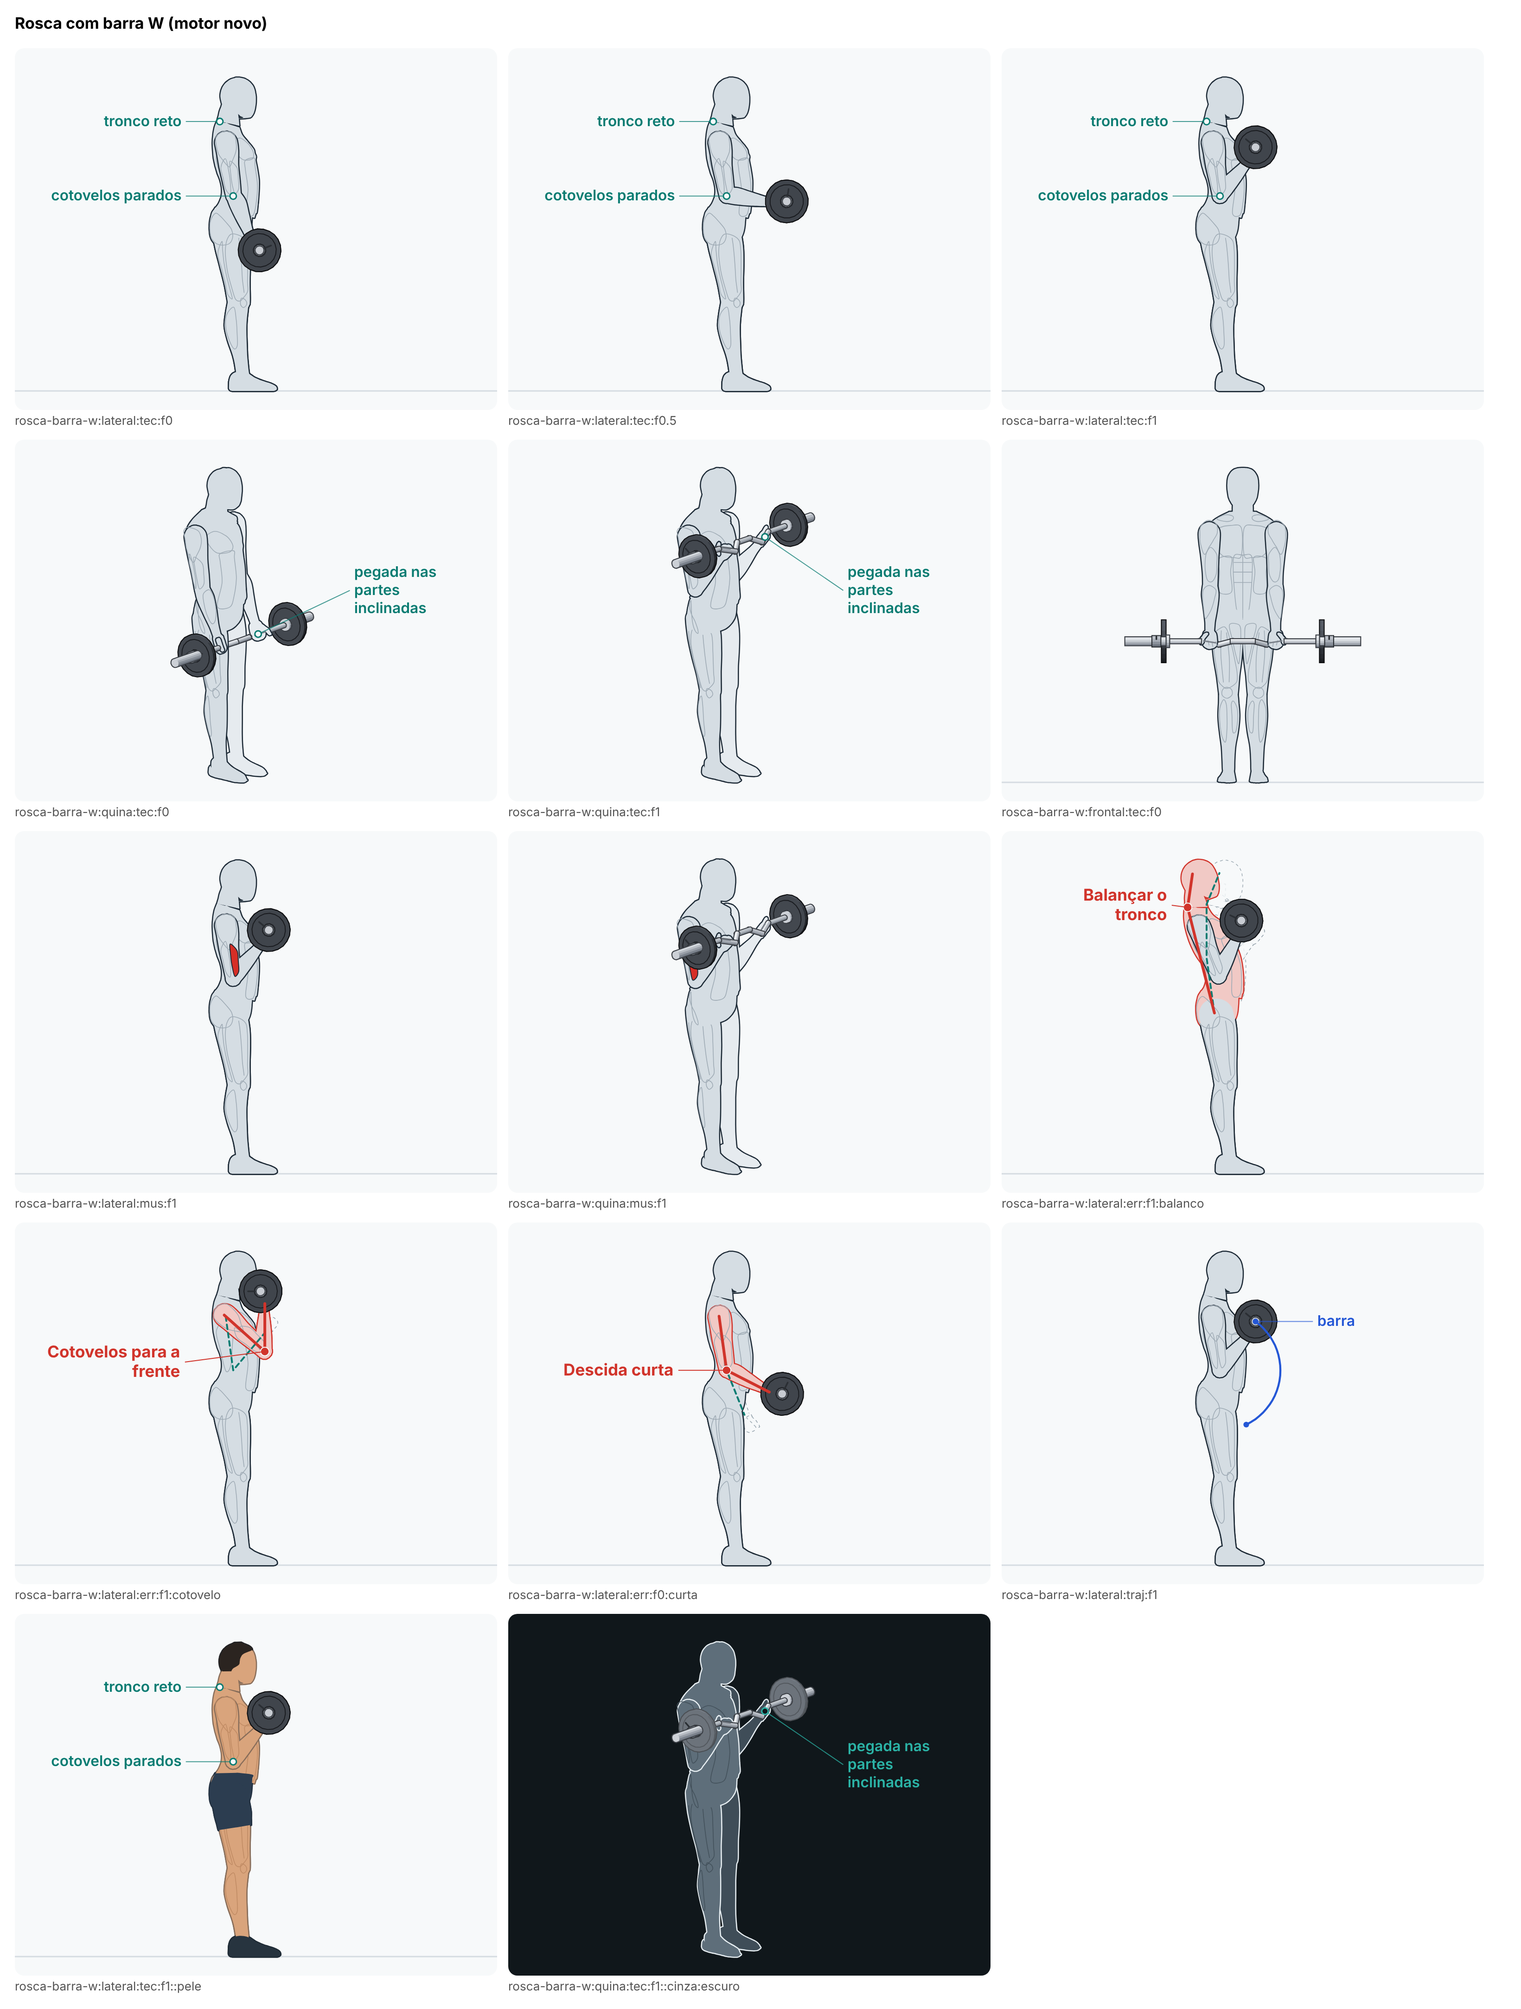
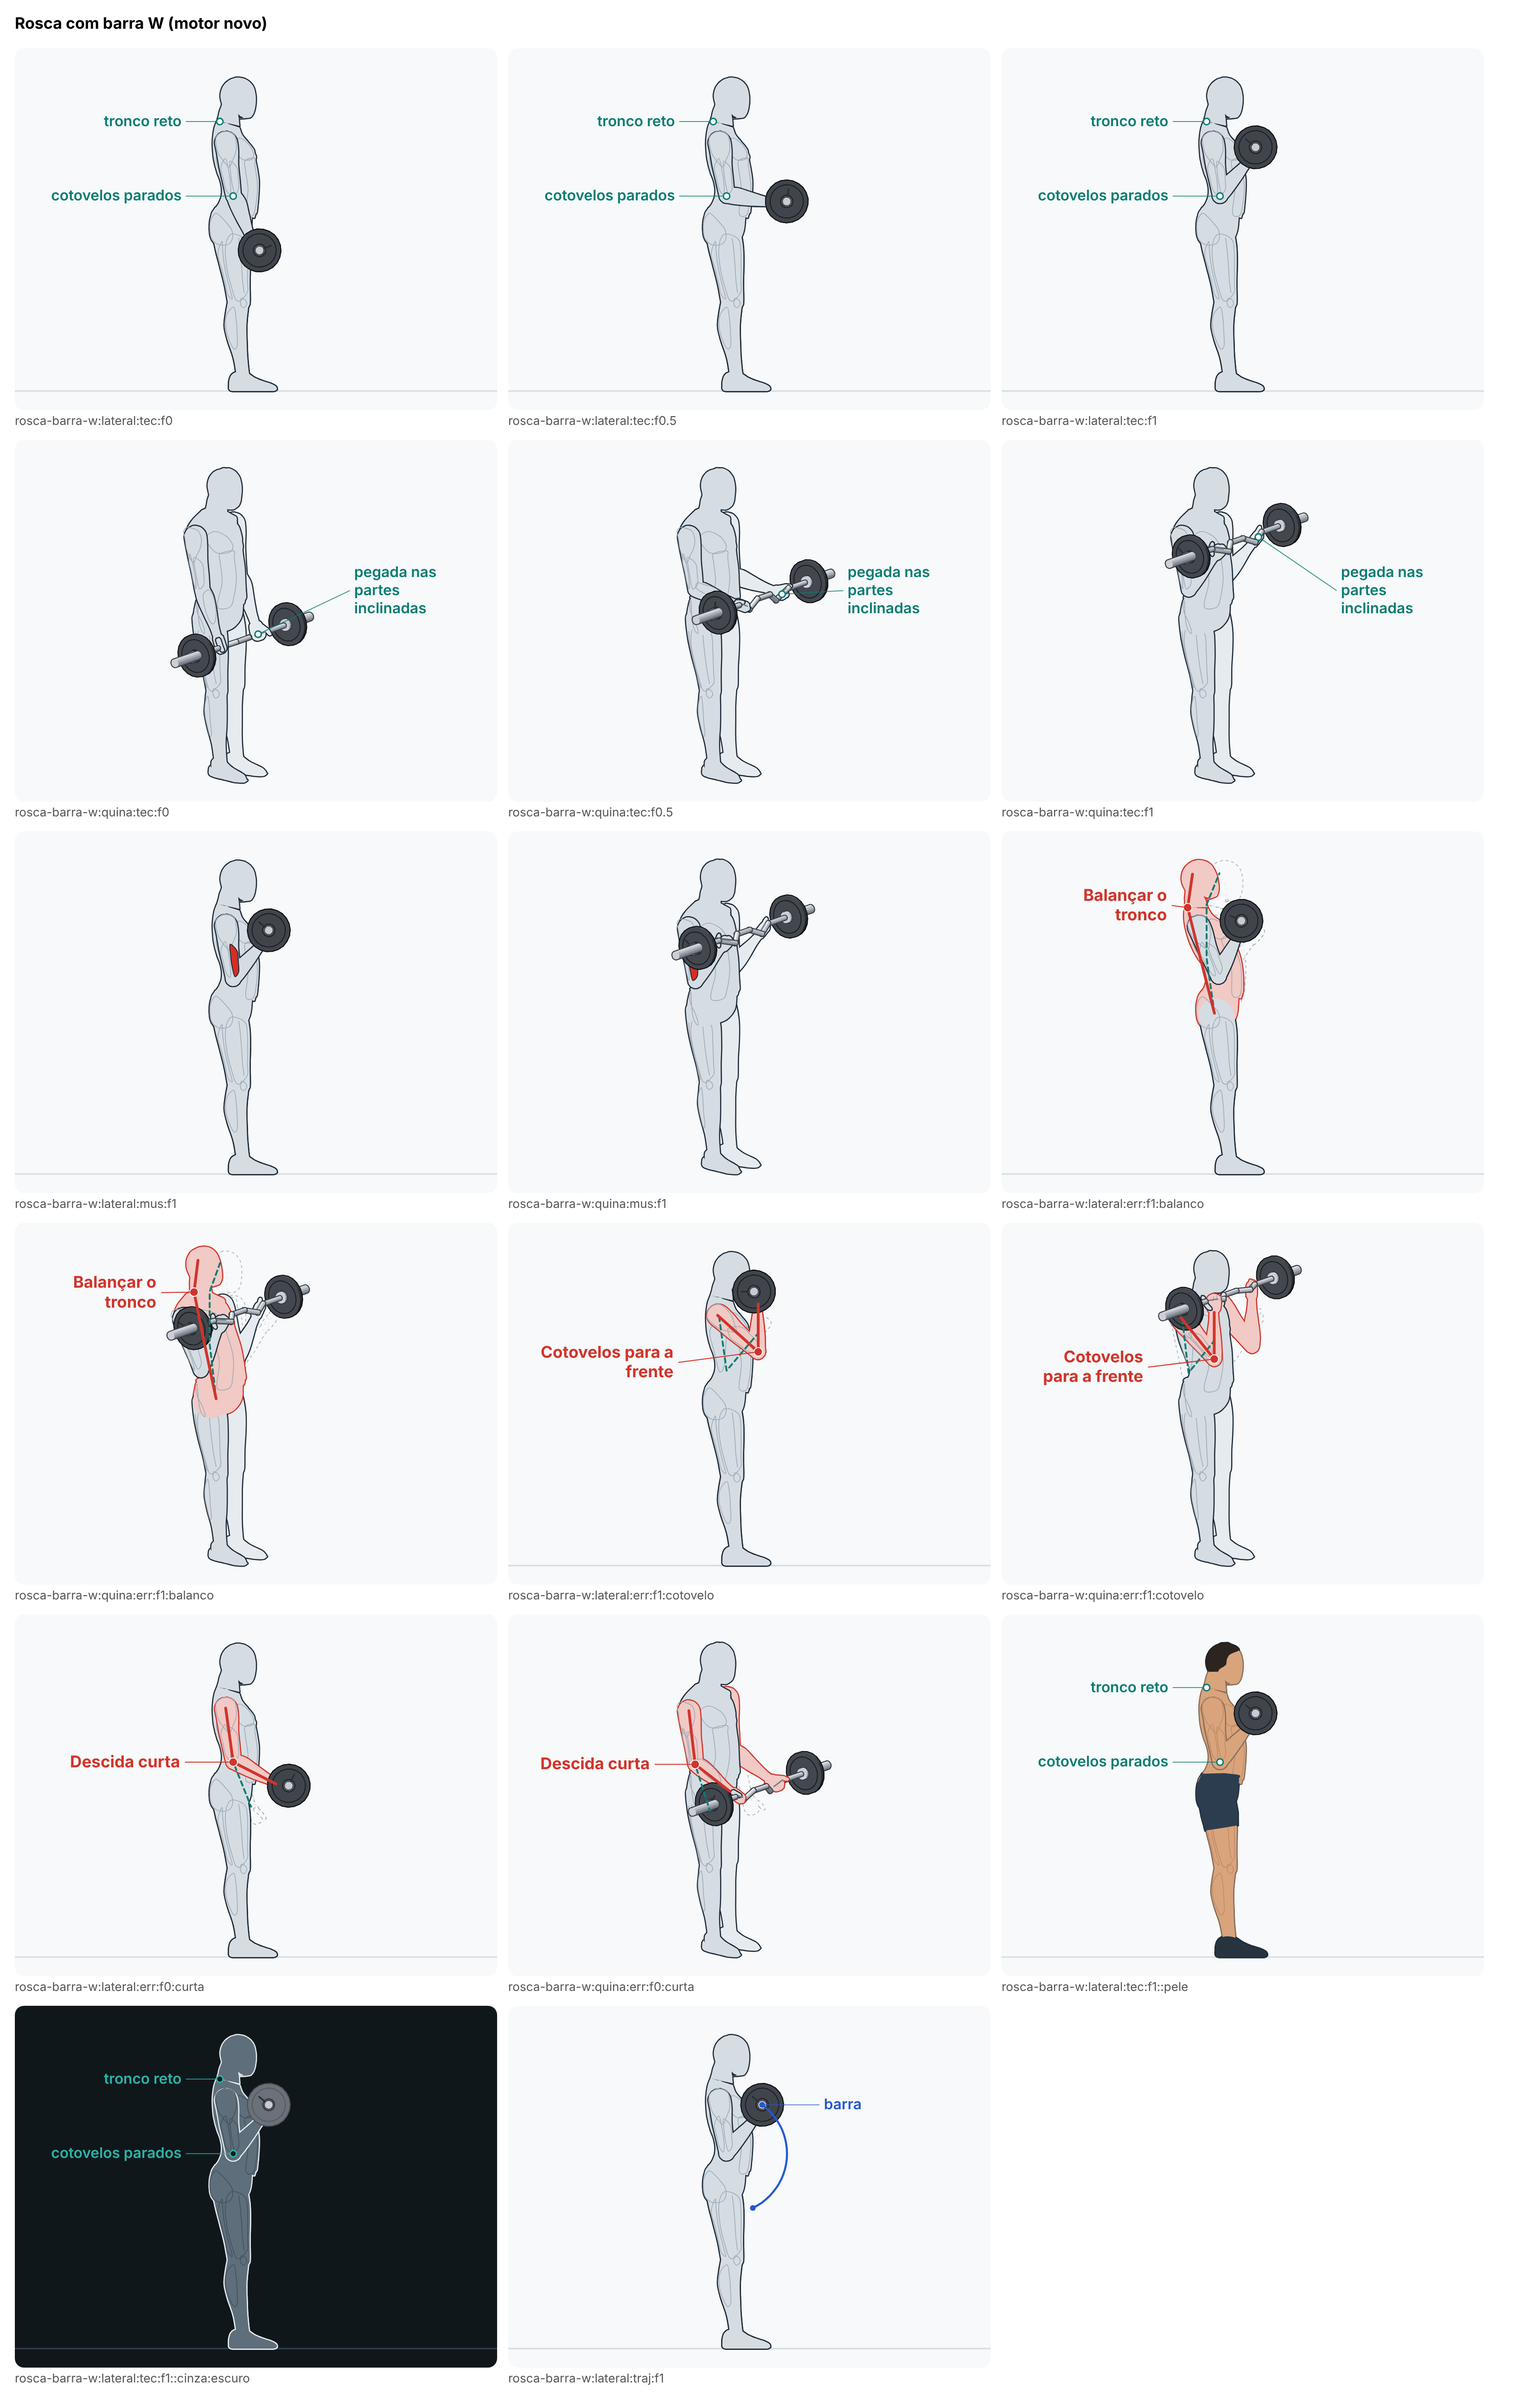
Tira a barra W de dentro das coxas no começo do balanço da rosca
Com o tronco 10° à frente no começo do erro, os braços iam junto e a barra
entrava 1,3 cm nas coxas. Nesse erro, embaixo, o cotovelo dobra 18,3° (eram
13,9°), o que a barra precisa para passar à folga das coxas. A ficha liga
peso-fora-do-corpo.

Claude-Session: https://claude.ai/code/session_01YRzts8DBGbsca9onebcMt1

diff --git a/src/engine/novo/exercicios/rosca-barra-w.ts b/src/engine/novo/exercicios/rosca-barra-w.ts
@@ -151,9 +151,25 @@ function calcular(corpo: Corpo): Calibrado {
   return { pelve, abre, cotBaixo };
 }
 
+/**
+ * Correção de 19/11/2026: no erro "Balançar o tronco", o tronco começa 10° inclinado à frente, os braços vão com ele e,
+ * com o cotovelo do movimento certo, a barra entrava 1,3 cm nas coxas. Embaixo, nesse erro, o cotovelo dobra o que a
+ * barra precisa para passar à mesma folga das coxas (`barra.folga`), como no movimento certo.
+ */
+function cotoveloEmbaixoNoBalanco(corpo: Corpo): number {
+  return calibragem(corpo, 'rosca-barra-w:balanco-embaixo', () => {
+    const c = calibrar(corpo);
+    const folga = (cot: number) => {
+      const e = montarEmPe(corpo, pedidoDoCorpo(cot, c.abre, 0, 'balanco'), c.pelve);
+      return folgaDasPernas(e, esferasDaBarra(e)) - f('barra.folga');
+    };
+    return folga(c.cotBaixo) >= 0 ? c.cotBaixo : resolver1(folga, c.cotBaixo, 60, 26);
+  });
+}
+
 function quadro(corpo: Corpo, u: number, erro?: string): Quadro {
   const c = calibrar(corpo);
-  const baixo = erro === 'curta' ? f('erro.curta.cotovelo') : c.cotBaixo;
+  const baixo = erro === 'curta' ? f('erro.curta.cotovelo') : erro === 'balanco' ? cotoveloEmbaixoNoBalanco(corpo) : c.cotBaixo;
   const e = montarEmPe(corpo, pedidoDoCorpo(mix(baixo, f('cotovelo.cima'), u), c.abre, u, erro), c.pelve);
   const B = barraDe(e);
   const pb = barraW(B);

diff --git a/docs/revisoes/animacao-nova/lote-B1/rosca-barra-w.md b/docs/revisoes/animacao-nova/lote-B1/rosca-barra-w.md
@@ -64,3 +64,22 @@ Não há correção registrada para este exercício em `correcoes-ja-feitas.md` 
 - **A anilha de 5 kg tapa a mão de perto, de lado, embaixo**, como numa foto de rosca com barra; não troquei a anilha porque a de 45 cm taparia mais.
 - **As juntas da curva** são trechos retos que passam um pouco da dobra (cilindros sobrepostos): de perto, numa dobra se vê um pequeno degrau. Na cena, no tamanho do celular, não aparece.
 - **A curva da peça foi ajustada pela animação** (as dobras onde a mão cai com o braço junto do tronco); como os números da curva já eram de desenho, nenhuma medida de fabricante mudou, mas a peça e a rosca ficam presas uma à outra até alguém achar a medida.
+
+## Correção de 19/11 (peso dentro do corpo)
+
+Depois do aviso do Gustavo na remada sem banco ("o halter tá puxando pra dentro do próprio corpo"), a regra `peso-fora-do-corpo` (a superfície do peso contra o volume do corpo, fora as mãos que seguram, no ciclo e em cada erro em 9 instantes; tolerância de 0,5 cm) e a checagem de pesos da conferência da pintura foram passadas em todas as animações com peso livre. Nesta, **no começo do erro "Balançar o tronco"**, o tronco começa 10° inclinado à frente e os braços vão com ele: com o cotovelo do movimento certo embaixo (13,9°), **a barra entrava 1,3 cm nas coxas** (1,4 cm pela checagem da pintura).
+
+**A mudança.**
+
+- Nesse erro, embaixo, o cotovelo dobra o que a barra precisa para passar à mesma folga das coxas que no movimento certo (`barra.folga`, 0,5 cm): 18,3°, calibrado e guardado no preparo (`rosca-barra-w:balanco-embaixo`). Daí ele sobe como antes.
+- O ciclo e os outros dois erros não mudam.
+
+| medido (homem) | antes | depois |
+|---|---|---|
+| a barra entra nas coxas (erro "Balançar o tronco", começo) | 1,3 cm | 0 cm |
+| cotovelo embaixo, no erro | 13,9° | 18,3° |
+
+A ficha liga `peso-fora-do-corpo`: medida no estado de antes, ela falha (1,3 cm, na coxa direita, no erro "Balançar o tronco"); no de agora, passa (o peso não entra no corpo). O antes e depois está em `correcao-das-antigas/rosca-barra-w-peso.png`; os quadros grandes foram regravados (`quadros/rosca-barra-w.png`) e olhados vista por vista, quadro a quadro e erro a erro, nos dois lados do corpo. A conferência automática dá **1 falha e 2 avisos** (antes: 2 falhas e 2 avisos, entre elas a de pesos).
+
+**O que ainda não ficou bom.**
+- A falha que sobra é de antes: de três quartos, no começo do erro "Balançar o tronco", a coxa direita é pintada por cima de um pedaço da barra, que está na frente dela (2,3 cm², em 3 quadros). A barra não entra mais na coxa, mas de três quartos ainda pode parecer encostada nela. Não corrigi a ordem de pintura.
